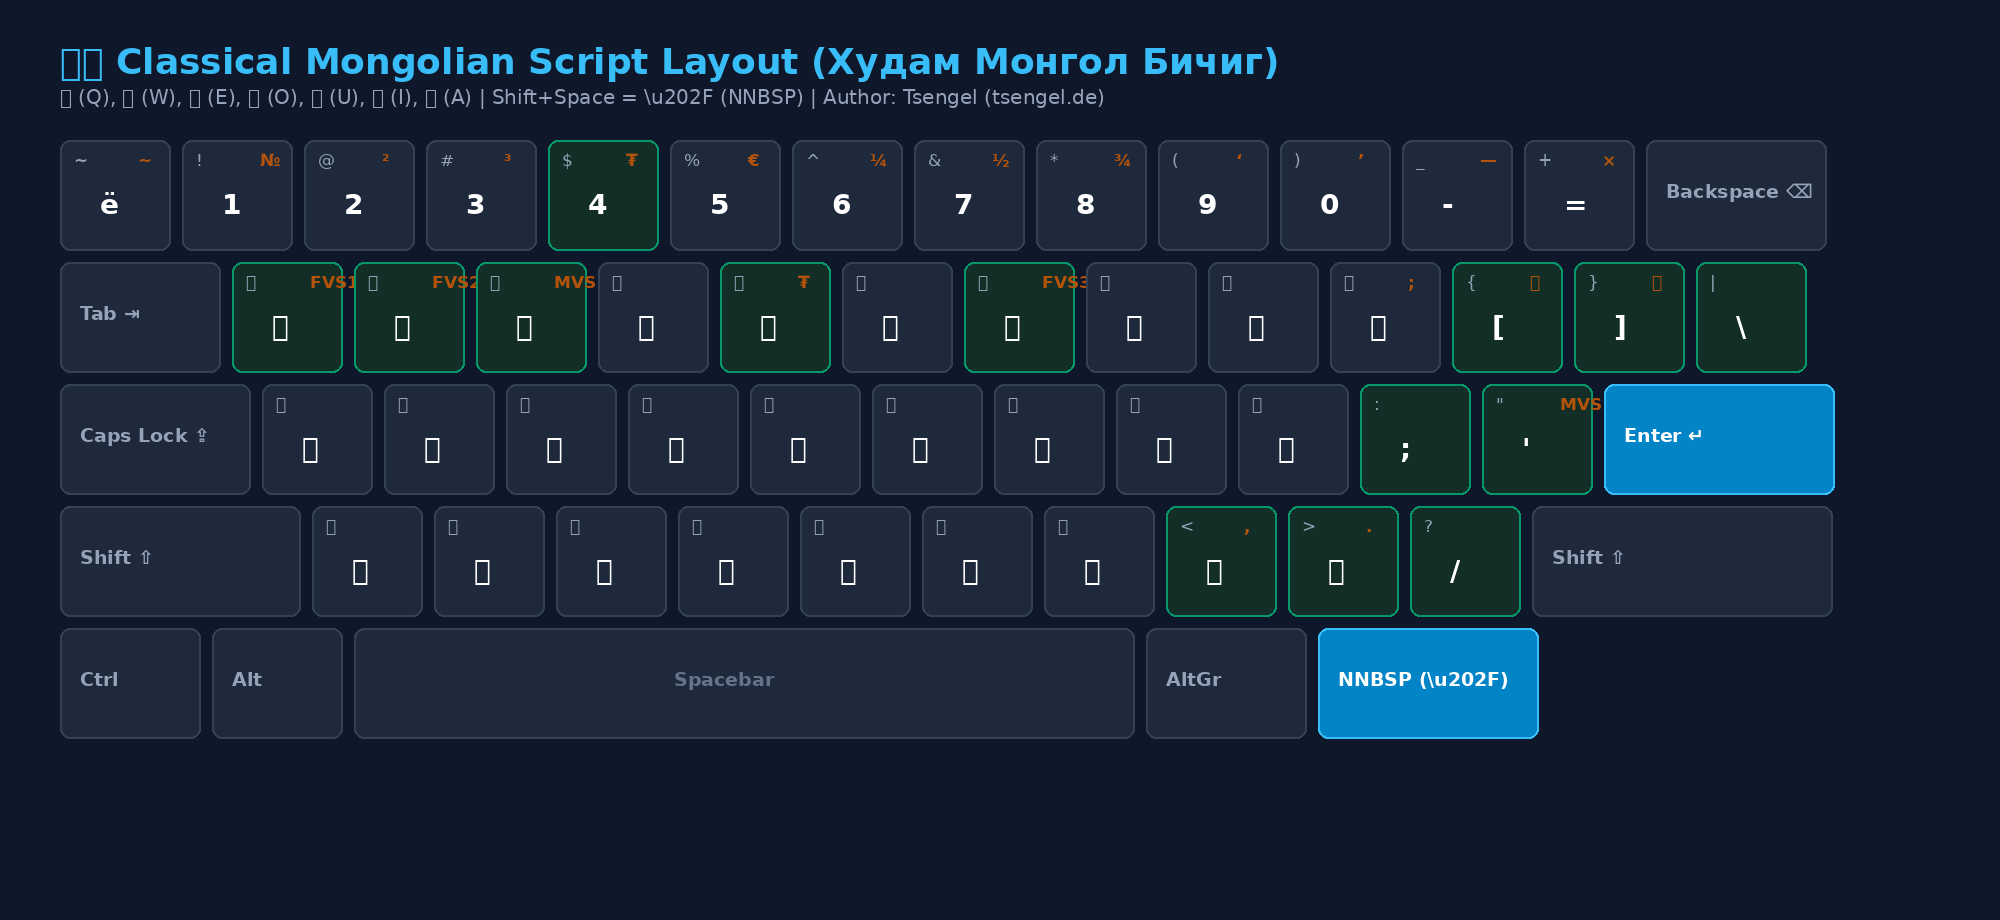
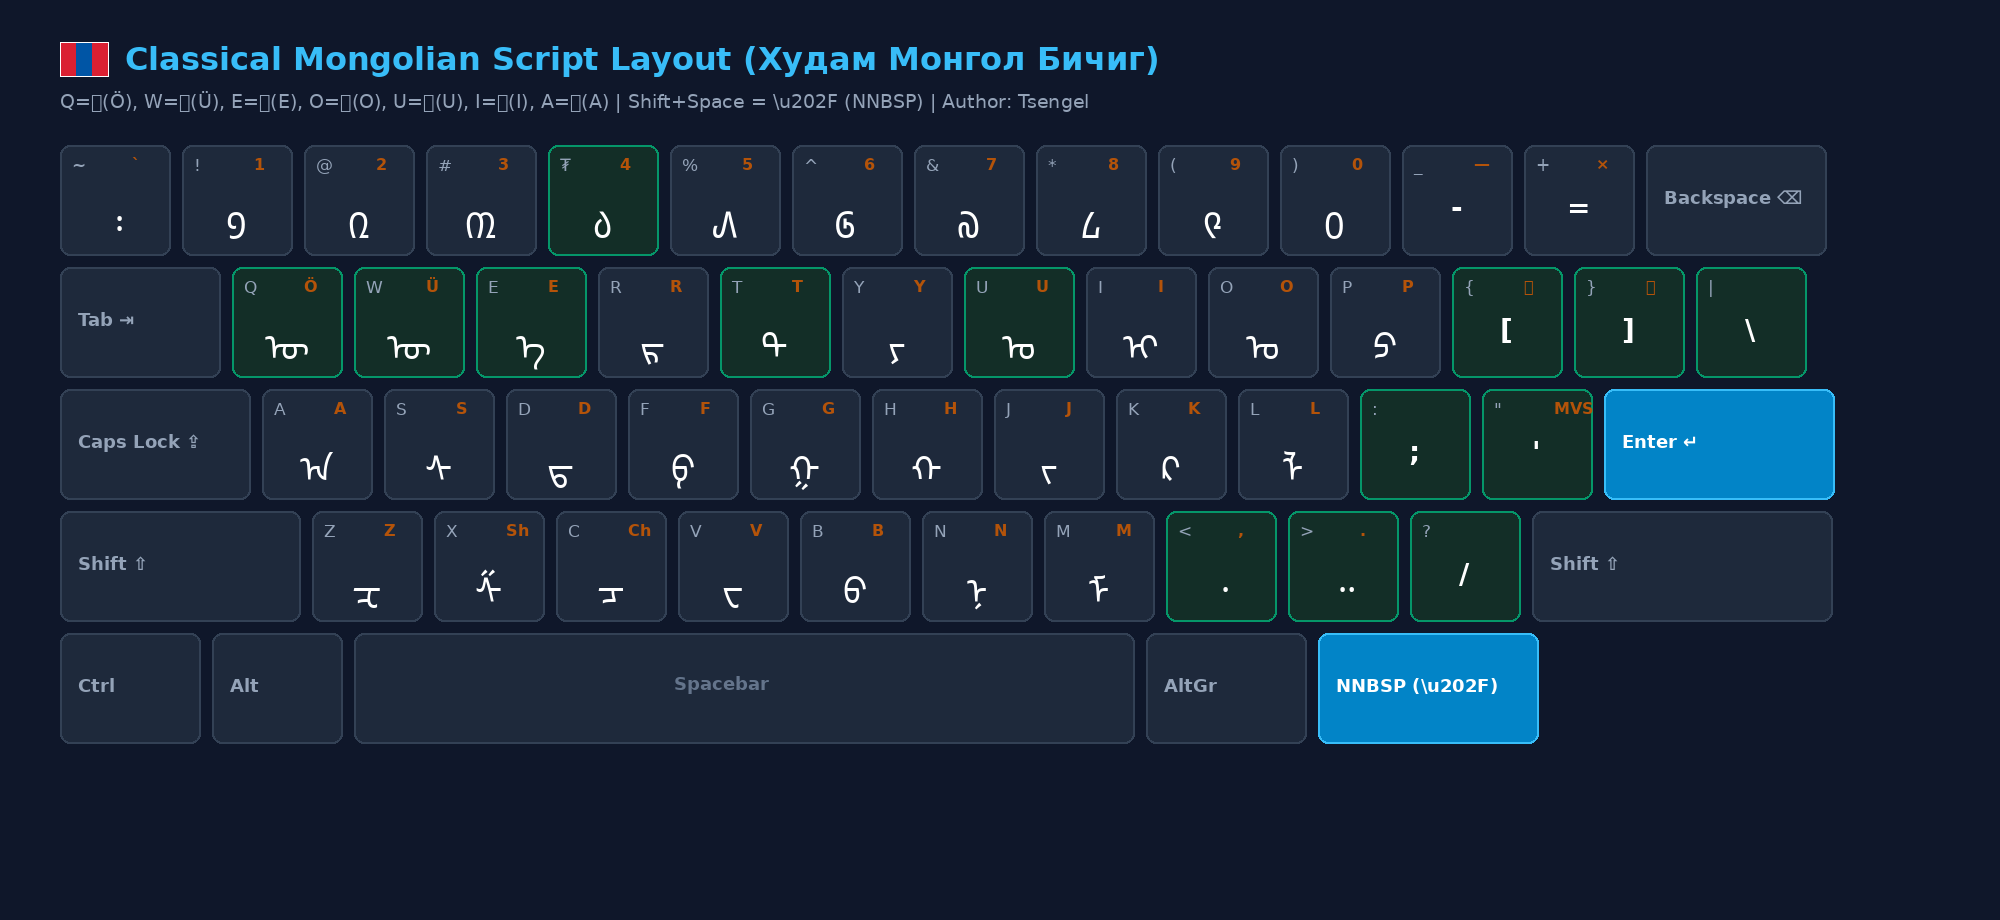
fix(diagrams,readme): eliminate missing glyph tofu squares by using NotoSansMongolian font fallback and vector flag

diff --git a/scripts/generate_diagrams.py b/scripts/generate_diagrams.py
@@ -1,6 +1,8 @@
 #!/usr/bin/env python3
 """
-Generate crisp, high-resolution vector (SVG) and raster (PNG) keyboard layout diagrams.
+Generate crisp, high-resolution vector and raster keyboard layout diagrams.
+With automatic font fallback for Classical Mongolian Script (Noto Sans Mongolian)
+and vector Mongolian flag badge to eliminate all emoji square tofu.
 Author: Tsengel (tsengel.de)
 """
 
@@ -12,10 +14,9 @@ os.makedirs(OUTPUT_DIR, exist_ok=True)
 
 FONT_REG = "/usr/share/fonts/truetype/dejavu/DejaVuSans.ttf"
 FONT_BOLD = "/usr/share/fonts/truetype/dejavu/DejaVuSans-Bold.ttf"
+FONT_BICHIG = "/usr/share/fonts/truetype/noto/NotoSansMongolian-Regular.ttf"
 
 # Layout Definitions
-# Format of key: (top_label, main_label, alt_label, is_devops)
-
 ERGO_ROW1 = [
     ('~', 'ё', '~', False), ('!', '1', '№', False), ('@', '2', '²', False), ('#', '3', '³', False),
     ('$', '4', '₮', True), ('%', '5', '€', False), ('^', '6', '¼', False), ('&', '7', '½', False),
@@ -27,7 +28,7 @@ ERGO_ROW2 = [
     ('Ө', 'ө', 'ъ', True), ('Ү', 'ү', 'ь', True), ('Э', 'э', '€', False), ('Р', 'р', '®', False),
     ('Т', 'т', '₮', True), ('Й', 'й', 'е', False), ('У', 'у', '„', False), ('И', 'и', '“', False),
     ('О', 'о', '”', False), ('П', 'п', ';', False), ('{', '[', '«', True), ('}', ']', '»', True),
-    ('|', '\\', '¦', True)
+    ('|', '\\', '|', True)
 ]
 
 ERGO_ROW3 = [
@@ -46,47 +47,77 @@ CLASSIC_ROW2 = [
     ('Ъ', 'ъ', "'", False), ('Ь', 'ь', '`', False), ('Э', 'э', '€', False), ('Р', 'р', '®', False),
     ('Т', 'т', '₮', True), ('Е', 'е', '™', False), ('У', 'у', '„', False), ('И', 'и', '“', False),
     ('О', 'о', '”', False), ('П', 'п', ';', False), ('Ө', 'ө', '[', True), ('Ү', 'ү', ']', True),
-    ('|', '\\', '¦', True)
+    ('|', '\\', '|', True)
+]
+
+BICHIG_ROW1 = [
+    ('~', '᠄', '`', False), ('!', '᠑', '1', False), ('@', '᠒', '2', False), ('#', '᠓', '3', False),
+    ('₮', '᠔', '4', True), ('%', '᠕', '5', False), ('^', '᠖', '6', False), ('&', '᠗', '7', False),
+    ('*', '᠘', '8', False), ('(', '᠙', '9', False), (')', '᠐', '0', False), ('_', '-', '—', False),
+    ('+', '=', '×', False)
 ]
 
 BICHIG_ROW2 = [
-    ('ᠥ', 'ᠥ', 'FVS1', True), ('ᠦ', 'ᠦ', 'FVS2', True), ('ᠡ', 'ᠡ', 'MVS', True), ('ᠷ', 'ᠷ', '', False),
-    ('ᠲ', 'ᠲ', '₮', True), ('ᠶ', 'ᠶ', '', False), ('ᠤ', 'ᠤ', 'FVS3', True), ('ᠢ', 'ᠢ', '', False),
-    ('ᠣ', 'ᠣ', '', False), ('ᠫ', 'ᠫ', ';', False), ('{', '[', '᠈', True), ('}', ']', '᠉', True),
+    ('Q', 'ᠥ', 'Ö', True), ('W', 'ᠦ', 'Ü', True), ('E', 'ᠡ', 'E', True), ('R', 'ᠷ', 'R', False),
+    ('T', 'ᠲ', 'T', True), ('Y', 'ᠶ', 'Y', False), ('U', 'ᠤ', 'U', True), ('I', 'ᠢ', 'I', False),
+    ('O', 'ᠣ', 'O', False), ('P', 'ᠫ', 'P', False), ('{', '[', '᠈', True), ('}', ']', '᠉', True),
     ('|', '\\', '', True)
 ]
 
 BICHIG_ROW3 = [
-    ('ᠠ', 'ᠠ', '', False), ('ᠰ', 'ᠰ', '', False), ('ᠳ', 'ᠳ', '', False), ('ᠹ', 'ᠹ', '', False),
-    ('ᠭ', 'ᠭ', '', False), ('ᠬ', 'ᠬ', '', False), ('ᠵ', 'ᠵ', '', False), ('ᠺ', 'ᠺ', '', False),
-    ('ᠯ', 'ᠯ', '', False), (':', ';', '', True), ('"', "'", 'MVS', True)
+    ('A', 'ᠠ', 'A', False), ('S', 'ᠰ', 'S', False), ('D', 'ᠳ', 'D', False), ('F', 'ᠹ', 'F', False),
+    ('G', 'ᠭ', 'G', False), ('H', 'ᠬ', 'H', False), ('J', 'ᠵ', 'J', False), ('K', 'ᠺ', 'K', False),
+    ('L', 'ᠯ', 'L', False), (':', ';', '', True), ('"', "'", 'MVS', True)
 ]
 
 BICHIG_ROW4 = [
-    ('ᠽ', 'ᠽ', '', False), ('ᠱ', 'ᠱ', '', False), ('ᠴ', 'ᠴ', '', False), ('ᠸ', 'ᠸ', '', False),
-    ('ᠪ', 'ᠪ', '', False), ('ᠩ', 'ᠨ', '', False), ('ᠮ', 'ᠮ', '', False), ('<', '᠂', ',', True),
+    ('Z', 'ᠽ', 'Z', False), ('X', 'ᠱ', 'Sh', False), ('C', 'ᠴ', 'Ch', False), ('V', 'ᠸ', 'V', False),
+    ('B', 'ᠪ', 'B', False), ('N', 'ᠨ', 'N', False), ('M', 'ᠮ', 'M', False), ('<', '᠂', ',', True),
     ('>', '᠃', '.', True), ('?', '/', '', True)
 ]
+
+def is_mongol_script(text):
+    for ch in text:
+        if 0x1800 <= ord(ch) <= 0x18AF:
+            return True
+    return False
+
+def draw_flag_badge(draw, x, y, h=34):
+    """Draw a clean, crisp vector Mongolian flag [Red | Blue | Red]"""
+    w_stripe = 16
+    r1 = [x, y, x + w_stripe, y + h]
+    b1 = [x + w_stripe, y, x + w_stripe * 2, y + h]
+    r2 = [x + w_stripe * 2, y, x + w_stripe * 3, y + h]
+    draw.rectangle(r1, fill='#da2032')
+    draw.rectangle(b1, fill='#0055a5')
+    draw.rectangle(r2, fill='#da2032')
+    # Outline
+    draw.rectangle([x, y, x + w_stripe * 3, y + h], outline='#ffffff', width=1)
 
 def render_layout(title, subtitle, row1, row2, row3, row4, mode='normal', out_filename='keyboard.png'):
     width = 2000
     height = 920
-    im = Image.new('RGB', (width, height), color='#0f172a') # Dark slate theme
+    im = Image.new('RGB', (width, height), color='#0f172a') # Dark slate
     draw = ImageDraw.Draw(im)
 
-    font_title = ImageFont.truetype(FONT_BOLD, 36)
-    font_sub = ImageFont.truetype(FONT_REG, 20)
+    font_title = ImageFont.truetype(FONT_BOLD, 32)
+    font_sub = ImageFont.truetype(FONT_REG, 19)
     font_main = ImageFont.truetype(FONT_BOLD, 28)
+    font_main_bichig = ImageFont.truetype(FONT_BICHIG, 36)
     font_top = ImageFont.truetype(FONT_REG, 17)
-    font_alt = ImageFont.truetype(FONT_BOLD, 17)
-    font_special = ImageFont.truetype(FONT_BOLD, 19)
+    font_top_bichig = ImageFont.truetype(FONT_BICHIG, 22)
+    font_alt = ImageFont.truetype(FONT_BOLD, 16)
+    font_special = ImageFont.truetype(FONT_BOLD, 18)
 
-    # Title
-    draw.text((60, 40), title, fill='#38bdf8', font=font_title)
-    draw.text((60, 85), subtitle, fill='#94a3b8', font=font_sub)
+    # Draw flag badge
+    draw_flag_badge(draw, 60, 42, h=34)
+
+    # Title & Subtitle (WITHOUT raw flag emoji to avoid square tofu)
+    draw.text((125, 40), title, fill='#38bdf8', font=font_title)
+    draw.text((60, 90), subtitle, fill='#94a3b8', font=font_sub)
 
     start_x = 60
-    start_y = 140
+    start_y = 145
     key_h = 110
     gap = 12
     key_w = 110
@@ -94,9 +125,8 @@ def render_layout(title, subtitle, row1, row2, row3, row4, mode='normal', out_fi
     # Row 1
     cur_x = start_x
     for k in row1:
-        draw_key(draw, cur_x, start_y, key_w, key_h, k, mode, font_main, font_top, font_alt)
+        draw_key(draw, cur_x, start_y, key_w, key_h, k, mode, font_main, font_main_bichig, font_top, font_top_bichig, font_alt)
         cur_x += key_w + gap
-    # Backspace
     draw_special_key(draw, cur_x, start_y, 180, key_h, "Backspace ⌫", font_special)
 
     # Row 2
@@ -104,7 +134,7 @@ def render_layout(title, subtitle, row1, row2, row3, row4, mode='normal', out_fi
     draw_special_key(draw, start_x, cur_y, 160, key_h, "Tab ⇥", font_special)
     cur_x = start_x + 160 + gap
     for k in row2:
-        draw_key(draw, cur_x, cur_y, key_w, key_h, k, mode, font_main, font_top, font_alt)
+        draw_key(draw, cur_x, cur_y, key_w, key_h, k, mode, font_main, font_main_bichig, font_top, font_top_bichig, font_alt)
         cur_x += key_w + gap
 
     # Row 3
@@ -112,9 +142,8 @@ def render_layout(title, subtitle, row1, row2, row3, row4, mode='normal', out_fi
     draw_special_key(draw, start_x, cur_y, 190, key_h, "Caps Lock ⇪", font_special)
     cur_x = start_x + 190 + gap
     for k in row3:
-        draw_key(draw, cur_x, cur_y, key_w, key_h, k, mode, font_main, font_top, font_alt)
+        draw_key(draw, cur_x, cur_y, key_w, key_h, k, mode, font_main, font_main_bichig, font_top, font_top_bichig, font_alt)
         cur_x += key_w + gap
-    # Enter
     draw_special_key(draw, cur_x, cur_y, 230, key_h, "Enter ↵", font_special, is_accent=True)
 
     # Row 4
@@ -122,7 +151,7 @@ def render_layout(title, subtitle, row1, row2, row3, row4, mode='normal', out_fi
     draw_special_key(draw, start_x, cur_y, 240, key_h, "Shift ⇧", font_special, is_shift=(mode == 'shift'))
     cur_x = start_x + 240 + gap
     for k in row4:
-        draw_key(draw, cur_x, cur_y, key_w, key_h, k, mode, font_main, font_top, font_alt)
+        draw_key(draw, cur_x, cur_y, key_w, key_h, k, mode, font_main, font_main_bichig, font_top, font_top_bichig, font_alt)
         cur_x += key_w + gap
     draw_special_key(draw, cur_x, cur_y, 300, key_h, "Shift ⇧", font_special, is_shift=(mode == 'shift'))
 
@@ -131,17 +160,14 @@ def render_layout(title, subtitle, row1, row2, row3, row4, mode='normal', out_fi
     draw_special_key(draw, start_x, cur_y, 140, key_h, "Ctrl", font_special)
     draw_special_key(draw, start_x + 152, cur_y, 130, key_h, "Alt", font_special)
     
-    # Spacebar
     space_w = 780
     space_x = start_x + 294
     draw.rounded_rectangle([space_x, cur_y, space_x + space_w, cur_y + key_h], radius=10, fill='#1e293b', outline='#334155', width=2)
     draw.text((space_x + 320, cur_y + 40), "Spacebar", fill='#64748b', font=font_special)
 
-    # AltGr
     altgr_x = space_x + space_w + gap
     draw_special_key(draw, altgr_x, cur_y, 160, key_h, "AltGr", font_special, is_altgr=(mode == 'altgr'))
 
-    # NNBSP key
     nnbsp_x = altgr_x + 160 + gap
     draw_special_key(draw, nnbsp_x, cur_y, 220, key_h, "NNBSP (\\u202F)", font_special, is_accent=True)
 
@@ -149,38 +175,44 @@ def render_layout(title, subtitle, row1, row2, row3, row4, mode='normal', out_fi
     im.save(out_path, quality=95)
     print(f"Generated: {out_path}")
 
-def draw_key(draw, x, y, w, h, k, mode, f_main, f_top, f_alt):
+def draw_key(draw, x, y, w, h, k, mode, f_main, f_main_bichig, f_top, f_top_bichig, f_alt):
     top, main, alt, devops = k
 
-    # Background color
-    bg = '#1e293b' # Slate dark
+    bg = '#1e293b'
     border = '#334155'
     if devops:
-        bg = '#132e27' # Emerald tint
+        bg = '#132e27'
         border = '#059669'
 
     if mode == 'altgr' and alt:
-        bg = '#3b2505' # Amber tint
+        bg = '#3b2505'
         border = '#d97706'
 
     draw.rounded_rectangle([x, y, x + w, y + h], radius=10, fill=bg, outline=border, width=2)
 
-    # Top text (Shift state)
+    # Top text
     top_color = '#38bdf8' if mode == 'shift' else '#94a3b8'
-    draw.text((x + 14, y + 10), top, fill=top_color, font=f_top)
+    used_top_font = f_top_bichig if is_mongol_script(top) else f_top
+    draw.text((x + 12, y + 10), top, fill=top_color, font=used_top_font)
 
-    # Alt text (AltGr state)
+    # Alt text
     alt_color = '#fbbf24' if mode == 'altgr' else '#b45309'
     if alt:
-        draw.text((x + w - 32, y + 10), alt, fill=alt_color, font=f_alt)
+        draw.text((x + w - 38, y + 10), alt, fill=alt_color, font=f_alt)
 
-    # Main text (Normal state)
+    # Main text
     main_color = '#ffffff' if mode == 'normal' else '#cbd5e1'
-    if mode == 'altgr' and alt:
-        # Highlight alt char as main
-        draw.text((x + 40, y + 48), alt, fill='#fbbf24', font=f_main)
-    else:
-        draw.text((x + 40, y + 48), main, fill=main_color, font=f_main)
+    char_to_draw = alt if (mode == 'altgr' and alt) else main
+    fill_color = '#fbbf24' if (mode == 'altgr' and alt) else main_color
+    used_main_font = f_main_bichig if is_mongol_script(char_to_draw) else f_main
+
+    # Center placement
+    bbox = draw.textbbox((0, 0), char_to_draw, font=used_main_font)
+    text_w = bbox[2] - bbox[0]
+    center_x = x + (w - text_w) // 2
+    center_y = y + (40 if is_mongol_script(char_to_draw) else 46)
+
+    draw.text((center_x, center_y), char_to_draw, fill=fill_color, font=used_main_font)
 
 def draw_special_key(draw, x, y, w, h, label, font, is_accent=False, is_shift=False, is_altgr=False):
     bg = '#1e293b'
@@ -201,22 +233,22 @@ def draw_special_key(draw, x, y, w, h, label, font, is_accent=False, is_shift=Fa
         text_color = '#ffffff'
 
     draw.rounded_rectangle([x, y, x + w, y + h], radius=10, fill=bg, outline=border, width=2)
-    draw.text((x + 20, y + 40), label, fill=text_color, font=font)
+    draw.text((x + 18, y + 42), label, fill=text_color, font=font)
 
 if __name__ == '__main__':
-    # 1. Modern Ergonomic (Normal & Shift)
+    # 1. Modern Ergonomic
     render_layout(
-        "🇲🇳 Mongolian Modern Ergonomic & DevOps Keyboard Layout (Үндсэн & Shift)",
+        "Mongolian Modern Ergonomic & DevOps Keyboard Layout (Normal & Shift)",
         "Q = Ө, W = Ү | Native Code Brackets [ ] { } \\ | Preserved | Author: Tsengel (tsengel.de)",
         ERGO_ROW1, ERGO_ROW2, ERGO_ROW3, ERGO_ROW4,
         mode='normal',
         out_filename="layout-ergonomic-normal.png"
     )
 
-    # 2. Modern Ergonomic (AltGr Layer)
+    # 2. Modern Ergonomic (AltGr)
     render_layout(
-        "🇲🇳 Mongolian Modern Ergonomic - AltGr Өргөтгөл Давхарга (AltGr Layer)",
-        "AltGr + T / 4 = ₮ (Төгрөг) | AltGr + D/F = « » | AltGr + Q/W = Ъ/Ь | AltGr + Space = \\u202F (NNBSP)",
+        "Mongolian Modern Ergonomic - AltGr Extension Layer",
+        "AltGr + T / 4 = ₮ (Tugrik) | AltGr + D/F = « » | AltGr + Q/W = Ъ/Ь | AltGr + Space = \\u202F (NNBSP)",
         ERGO_ROW1, ERGO_ROW2, ERGO_ROW3, ERGO_ROW4,
         mode='altgr',
         out_filename="layout-ergonomic-altgr.png"
@@ -224,7 +256,7 @@ if __name__ == '__main__':
 
     # 3. Classic Tsengel Layout
     render_layout(
-        "🇲🇳 Mongolian Classic Tsengel Layout (2021 Анхны Хувилбар)",
+        "Mongolian Classic Tsengel Layout (2021 Edition)",
         "Brackets [ = ө, ] = ү | Q = ъ, W = ь | Author: Tsengel (tsengel.de)",
         ERGO_ROW1, CLASSIC_ROW2, ERGO_ROW3, ERGO_ROW4,
         mode='normal',
@@ -233,10 +265,9 @@ if __name__ == '__main__':
 
     # 4. Classical Mongol Bichig
     render_layout(
-        "🇲🇳 Classical Mongolian Script Layout (Худам Монгол Бичиг)",
-        "ᠥ (Q), ᠦ (W), ᠡ (E), ᠣ (O), ᠤ (U), ᠢ (I), ᠠ (A) | Shift+Space = \\u202F (NNBSP) | Author: Tsengel (tsengel.de)",
-        ERGO_ROW1, BICHIG_ROW2, BICHIG_ROW3, BICHIG_ROW4,
+        "Classical Mongolian Script Layout (Худам Монгол Бичиг)",
+        "Q=ᠥ(Ö), W=ᠦ(Ü), E=ᠡ(E), O=ᠣ(O), U=ᠤ(U), I=ᠢ(I), A=ᠠ(A) | Shift+Space = \\u202F (NNBSP) | Author: Tsengel",
+        BICHIG_ROW1, BICHIG_ROW2, BICHIG_ROW3, BICHIG_ROW4,
         mode='normal',
         out_filename="layout-bichig.png"
     )
-

diff --git a/README.md b/README.md
@@ -29,7 +29,7 @@
 ![Mongolian Classic Layout](docs/images/layout-classic-normal.png)
 
 ### 4. Classical Mongol Bichig Edition (Худам Монгол Бичиг)
-> Кирилл үсгийн байрлалтай 100% ижил дадлаар Худам монгол бичгээр шивнэ: `Q` = `ᠥ`, `W` = `ᠦ`, `E` = `ᠡ`, `O` = `ᠣ`, `U` = `ᠤ`, `I` = `ᠢ`, `A` = `ᠠ`. Тоонууд дээр сонгодог цифрүүд (`᠐ ᠑ ᠒ ᠓ ᠔ ᠕ ᠖ ᠗ ᠘ ᠙`) байрлана.
+> Кирилл үсгийн байрлалтай 100% ижил дадлаар Худам монгол бичгээр шивнэ: `Q` = **Ö (Ө)**, `W` = **Ü (Ү)**, `E` = **E (Э)**, `O` = **O (О)**, `U` = **U (У)**, `I` = **I (И)**, `A` = **A (А)**. Тоон товчлуурууд дээр монгол бичгийн сонгодог цифрүүд (0-9) шууд гарна. Дэлгэрэнгүй хуваарилалтыг доорх зургаас харна уу.
 
 ![Classical Mongol Bichig Layout](docs/images/layout-bichig.png)
 
@@ -46,7 +46,7 @@
 | `Y` | **й** | **е** | **Й** | **е** |
 | `[` | **[** (Кодын хаалт) | **ө** | **{** (Кодын хаалт) | **«** (Зүүн хашилт) |
 | `]` | **]** (Кодын хаалт) | **ү** | **}** (Кодын хаалт) | **»** (Баруун хашилт) |
-| `\` | **\\** (Кодын зураас) | **й** | **\|** (Кодын Pipe) | ¦ |
+| `\` | **\\** (Кодын зураас) | **й** | **\|** (Кодын Pipe) | **\|** |
 | `;` | **;** | **щ** | **:** | **щ** |
 | `'` | **ы** | **ы** | **Ы** | **'** / **"** |
 | `4` | 4 | 4 | $ | **₮ (Төгрөг)** |
